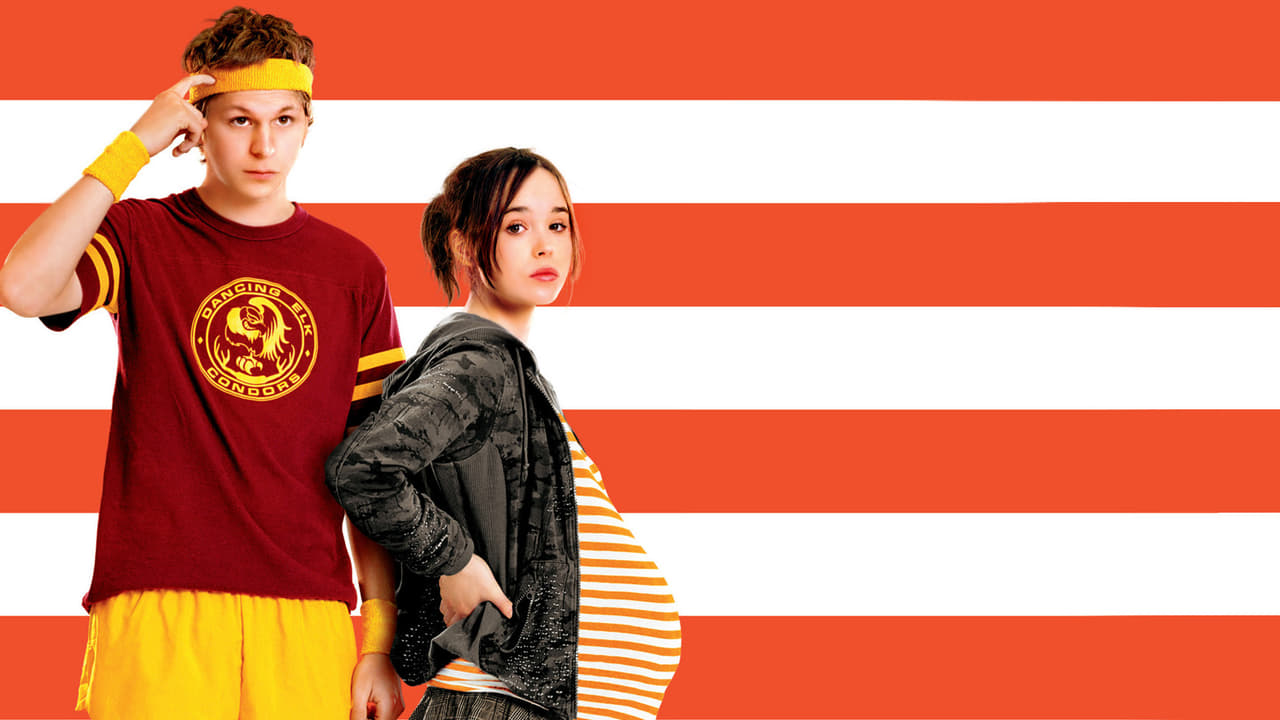
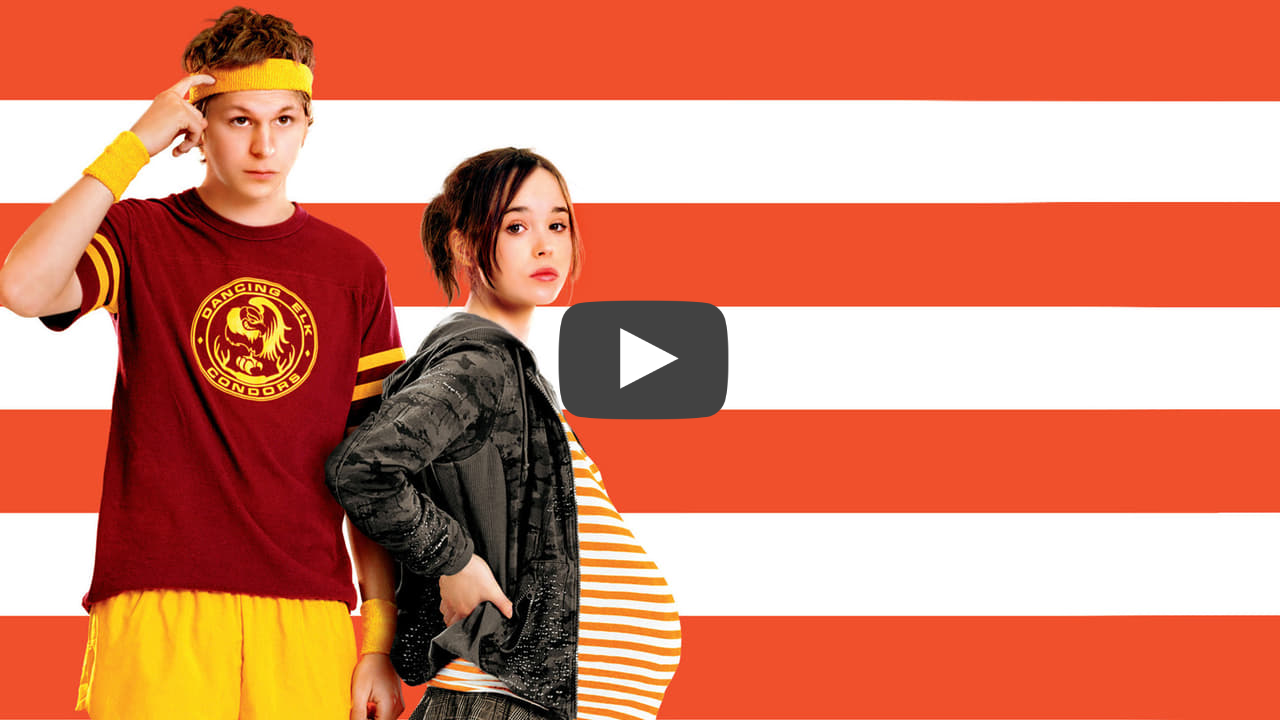
make iframe better experience

Changed region(s): [[0.4375, 0.3972, 0.5938, 0.5806]]

diff --git a/src/pages/stripes.tsx b/src/pages/stripes.tsx
@@ -1,4 +1,5 @@
 import * as React from "react"
+import { useState } from "react"
 import { useStaticQuery, graphql } from "gatsby"
 import { css } from "@emotion/core"
 import Layout from "../components/layout"
@@ -19,6 +20,8 @@ const iframe = css`
   position: absolute;
   border: 0;
   z-index: 0;
+  background: url(${background}) center center no-repeat;
+  background-size: cover;
 `
 
 const youtubeVideo = css`
@@ -36,21 +39,29 @@ const loadingThumbnail = css`
   height: 100%;
   width: 100%;
   z-index: 1;
+  &:hover {
+    cursor: pointer;
+  }
 `
 
 function stripes() {
+  const [isVideo, setIsVideo] = useState(false)
+
   return (
     <>
       <Layout>
         <SEO title="Stripes" />
         <h1>Stripes in Film</h1>
         <div css={youtubeVideo}>
-          <div css={iframeContainer}>
-            <iframe
-              css={iframe}
-              src="https://www.youtube.com/embed/Y1U4YkNkoG0?rel=0"
-            />
-            <div css={loadingThumbnail} />
+          <div css={iframeContainer} onClick={x => setIsVideo(true)}>
+            {isVideo ? (
+              <iframe
+                css={iframe}
+                src="https://www.youtube.com/embed/Y1U4YkNkoG0?rel=0&autoplay=1&mute=0"
+              />
+            ) : (
+              <div css={loadingThumbnail} />
+            )}
           </div>
         </div>
         <ImageGallery />
